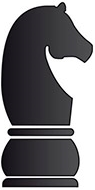
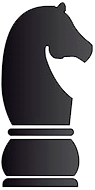
Изменены styles доски и добавлены другие картинки шахмат.

diff --git a/src/features/BoardCell/BoardCell.jsx b/src/features/BoardCell/BoardCell.jsx
@@ -1,13 +1,18 @@
 import React from "react";
+import { useDispatch } from "react-redux";
 import block from "bem-cn";
 
 import Figure from "features/Figure";
+
+import * as dataBoardActions from "features/dataBoard/redux/actions";
 
 import "./BoardCell.scss";
 
 const b = block("board-cell");
 
 const BoardCell = (props) => {
+  const dispatch = useDispatch();
+
   const splitId = props.id.split("");
   const n1 = splitId[0];
   const n2 = splitId[1];
@@ -23,8 +28,16 @@ const BoardCell = (props) => {
   }
 
   return (
-    <div className={b({ theme: theme })} {...props}>
-      <Figure figureType={props.figureType} />
+    <div
+      className={b({ theme: theme })}
+      {...props}
+      onClick={() => {
+        dispatch(dataBoardActions.changeCell(props.id));
+      }}
+    >
+      <div className={b("container")}>
+        <Figure figureType={props.figureType} />
+      </div>
     </div>
   );
 };

diff --git a/src/features/dataBoard/redux/actions.js b/src/features/dataBoard/redux/actions.js
@@ -1,9 +1,22 @@
 import { actionTypes } from "./types";
 
-export const changeBoard = () => {
+export const changeCell = (idCell) => {
   return async (dispatch, state, extra) => {
-    /* const value = state().app.theme === "dark" ? "light" : "dark"; */
+    const cells = { ...state().dataBoard.cells };
 
-    dispatch(/* { type: actionTypes.SWITCH_THEME, payload: value } */);
+    dispatch({
+      type: actionTypes.CHANGE_CELL,
+      payload: cells,
+    });
+  };
+};
+
+export const moveFigure = (idCell) => {
+  return async (dispatch, state, extra) => {
+    const moveArg = state().dataBoard.moveArg;
+    console.log(moveArg);
+    dispatch({
+      type: actionTypes.MOVE_FIGURE,
+    });
   };
 };

diff --git a/src/features/BoardCell/BoardCell.scss b/src/features/BoardCell/BoardCell.scss
@@ -1,9 +1,11 @@
 .board-cell {
-  width: 30px;
-  height: 30px;
+  min-width: 0;
+  width: 100%;
   display: flex;
   align-items: center;
   justify-content: center;
+  position: relative;
+  padding: 0 0 100% 0;
 
   &_theme {
     &_dark {
@@ -12,5 +14,16 @@
     &_light {
       background-color: wheat;
     }
+  }
+
+  &__container {
+    width: 100%;
+    height: 100%;
+    position: absolute;
+    top: 0;
+    display: flex;
+    justify-content: center;
+    align-items: center;
+    padding: 5px;
   }
 }

diff --git a/src/features/dataBoard/redux/reducer.js b/src/features/dataBoard/redux/reducer.js
@@ -3,10 +3,16 @@ import { initState } from "./init";
 
 export const reducer = (state = initState, action) => {
   switch (action.type) {
-    case actionTypes.CHANGE_BOARD: {
+    case actionTypes.CHANGE_CELL: {
       return {
         ...state,
         cells: action.payload,
+      };
+    }
+
+    case actionTypes.MOVE_FIGURE: {
+      return {
+        ...state,
       };
     }
 

diff --git a/src/features/Board/Board.scss b/src/features/Board/Board.scss
@@ -1,6 +1,6 @@
 .board {
+  width: 1000px;
   display: grid;
 
-  grid-template-rows: 40px 40px 40px 40px 40px 40px 40px 40px;
-  grid-template-columns: 40px 40px 40px 40px 40px 40px 40px 40px;
+  grid-template-columns: repeat(8, 1fr);
 }

diff --git a/src/features/dataBoard/redux/types.js b/src/features/dataBoard/redux/types.js
@@ -1,3 +1,4 @@
 export const actionTypes = {
-  CHANGE_BOARD: "dataBoard/CHANGE_BOARD",
+  CHANGE_CELL: "dataBoard/CHANGE_CELL",
+  MOVE_FIGURE: "dataBoard/MOVE_FIGURE",
 };

diff --git a/src/features/Figure/Figure.scss b/src/features/Figure/Figure.scss
@@ -1,8 +1,5 @@
 .figure {
   &__img {
-    height: 90%;
-    display: flex;
-    justify-content: center;
-    align-items: center;
+    height: 100%;
   }
 }
